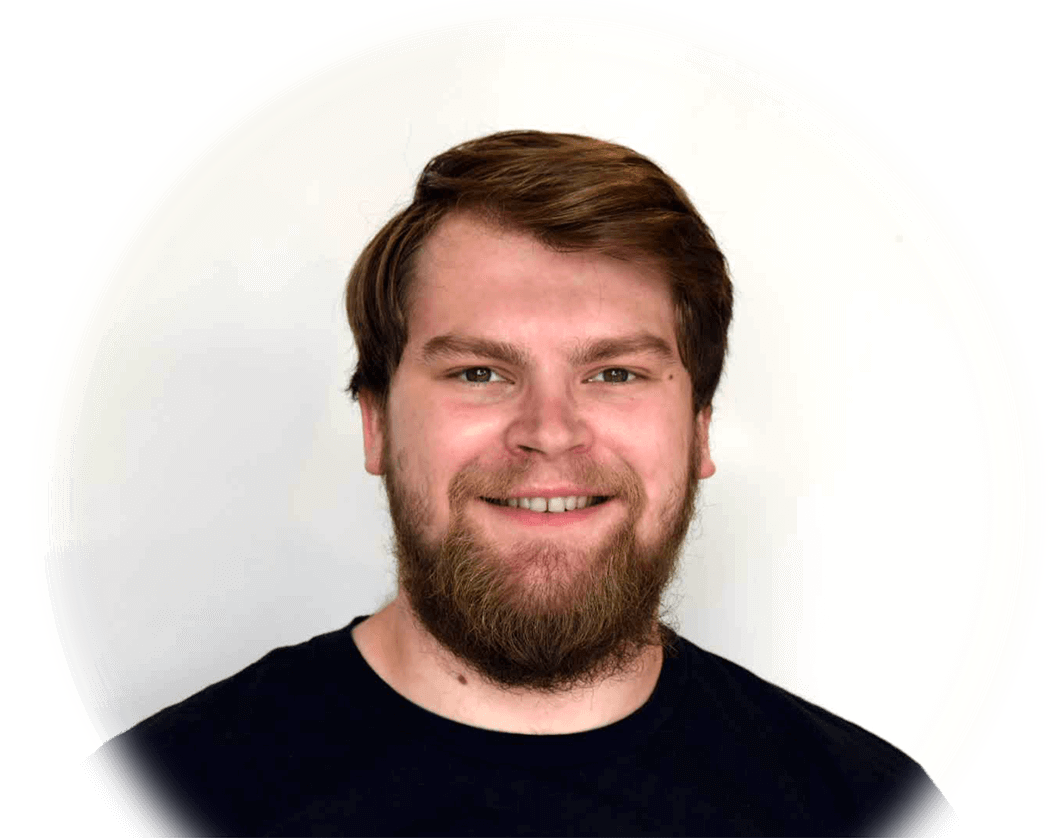
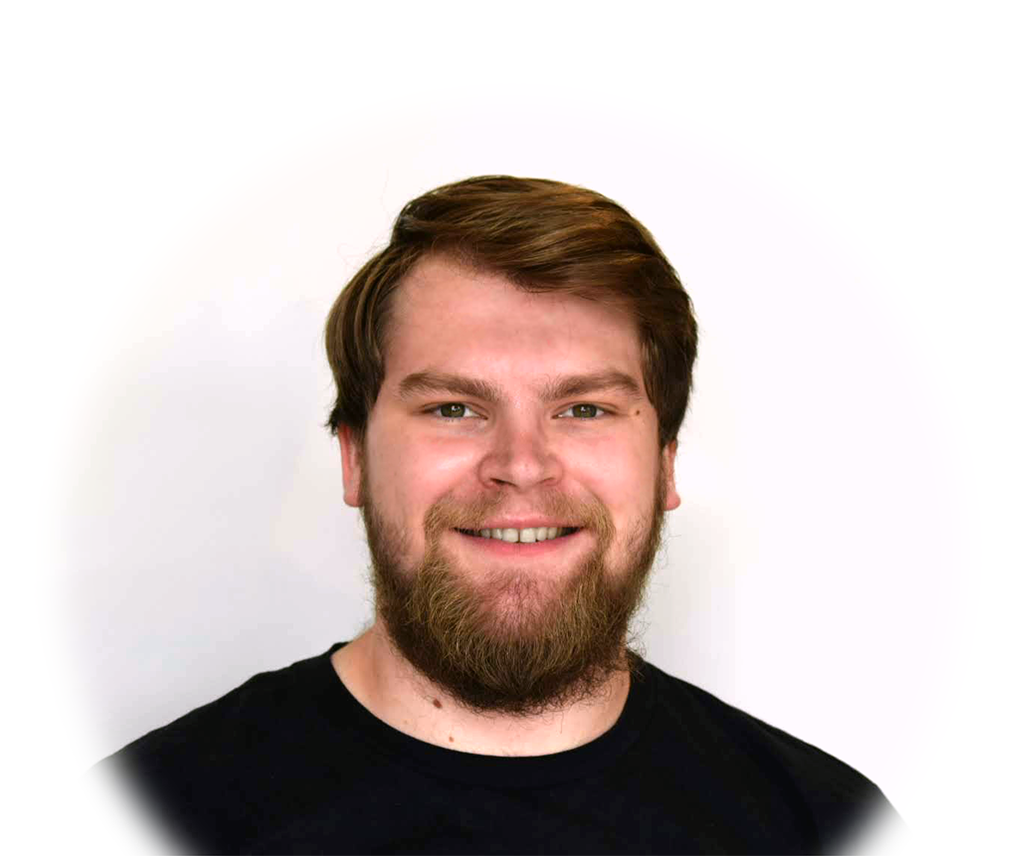
Fix up images a bit and add them back onto contact page

diff --git a/contact.html b/contact.html
@@ -12,11 +12,13 @@ Get in touch with our founders:
 <div class="featured-items">
 
 <div class="featured-item">
+    <img src="/assets/images/team/ed-nutting.png" />
     Ed Nutting<br>
     <a class="button" href="mailto:ed@beyondrisc.com"><i class="fas fa-envelope"></i> ed@beyondrisc.com</a>
 </div>
 
 <div class="featured-item">
+    <img src="/assets/images/team/andres-amaya-garcia.png" />
     Andres Amaya Garcia<br>
     <a class="button" href="mailto:andres@beyondrisc.com"><i class="fas fa-envelope"></i> andres@beyondrisc.com</a>
 </div>
